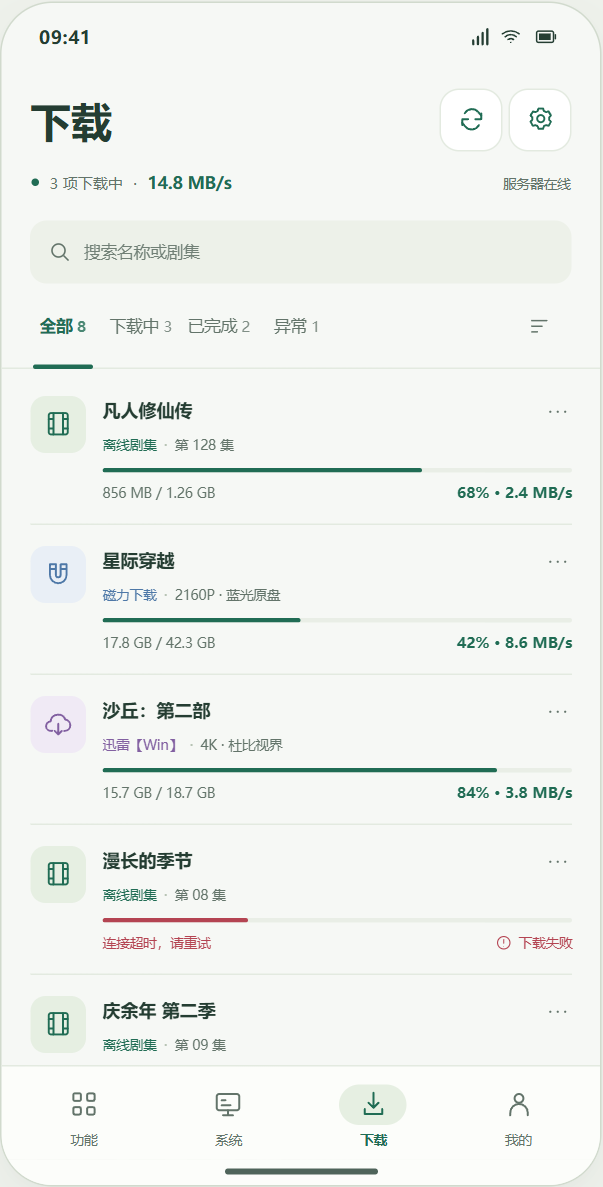
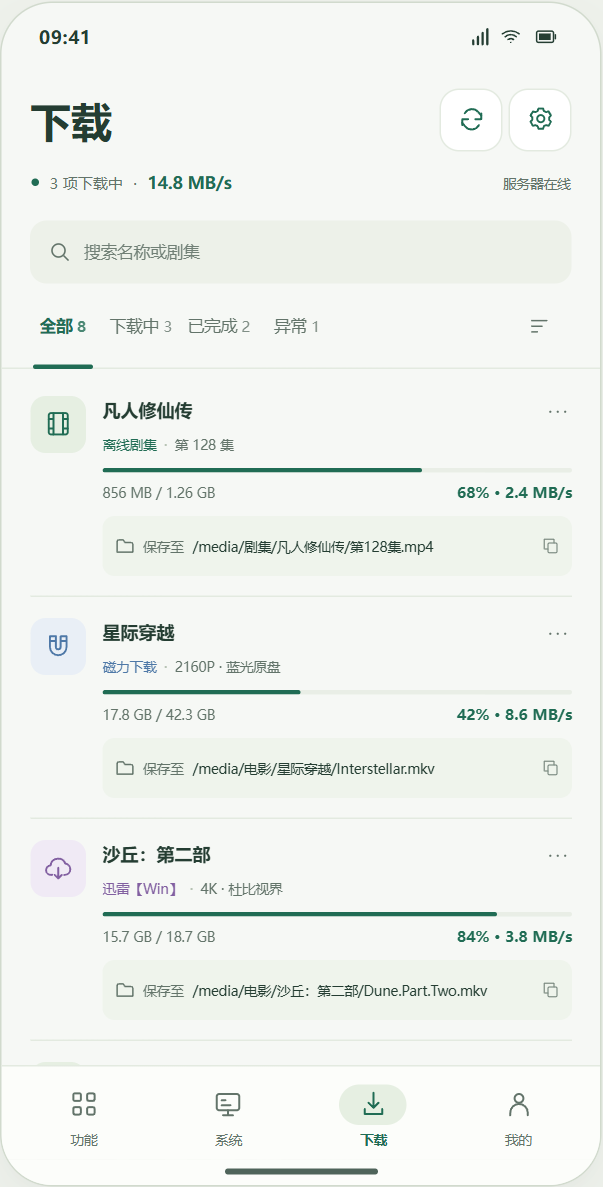
1

diff --git a/output/download-list-three-layouts/app.js b/output/download-list-three-layouts/app.js
@@ -42,7 +42,7 @@ const originalTasks = [
  {id:'t8',title:'宇宙探索编辑部',episode:'1080P · 高清',source:'magnet',state:'done',progress:100,speed:0,received:'3.8 GB',total:'3.8 GB',path:'/media/电影/宇宙探索编辑部/Journey.to.the.West.mkv'}
 ];
 const specs = [
- {id:'a',num:'01',title:'极简清单',subtitle:'连续列表 · 优先浏览效率',tag:'推荐',caption:'去掉大卡片，用轻分隔线串起任务。标题、进度、速度固定对齐，一眼扫过所有下载。',fit:'日常使用'},
+ {id:'a',num:'01',title:'极简清单',subtitle:'连续列表 · 优先浏览效率',tag:'推荐',caption:'去掉大卡片，用轻分隔线串起任务。标题、进度、速度固定对齐，保存位置独立显示，点击即可复制。',fit:'日常使用'},
  {id:'b',num:'02',title:'状态分组',subtitle:'分组列表 · 优先处理任务',caption:'下载中、异常、等待、已完成各归一组。组内保持连续列表，优先看到需要关注的任务。',fit:'任务较多'},
  {id:'c',num:'03',title:'来源分栏',subtitle:'双栏列表 · 优先切换来源',caption:'左侧固定来源，右侧专注任务列表。三个下载器各自查看，查找与切换更有方向。',fit:'多下载器'}
 ];
@@ -57,13 +57,20 @@ const sourceTag = task => '<span class="source-tag '+task.source+'">'+sources[ta
 const progress = task => '<div class="progress-track '+task.state+'" role="progressbar" aria-label="'+safe(task.title)+'下载进度" aria-valuemin="0" aria-valuemax="100" aria-valuenow="'+task.progress+'"><i style="--progress:'+task.progress+'%"></i></div>';
 const statusNode = task => '<span class="task-state '+stateClass(task)+'">'+(stateIcon(task)?icon(stateIcon(task)):'')+statusText(task)+'</span>';
 const titleLine = task => '<div class="task-title-line"><button class="title-button" data-action="detail" data-task="'+task.id+'" aria-label="查看'+safe(task.title)+'详细信息"><span class="task-title">'+safe(task.title)+'</span></button><button class="more-button" data-action="menu" data-task="'+task.id+'" aria-label="'+safe(task.title)+'的更多操作">'+icon('more')+'</button></div>';
+function savePathRow(task) {
+ const full=task.path||'',hasPath=full.trim().length>0;
+ const tailLength=/[^\u0000-\u00ff]/.test(full.slice(-14))?10:14;
+ const leading=full.slice(0,Math.max(0,full.length-tailLength)),tail=full.slice(-tailLength);
+ const value=hasPath?'<span class="save-path-leading">'+safe(leading)+'</span><span class="save-path-tail">'+safe(tail)+'</span>':'由下载器管理';
+ return '<button class="task-save-path '+(hasPath?'':'unset')+'" data-action="copy-path" data-task="'+task.id+'" title="'+safe(hasPath?'点击复制：'+full:'由下载器管理')+'" aria-label="'+safe(hasPath?'复制完整保存位置：'+full:'保存位置由下载器管理')+'" '+(hasPath?'':'disabled')+'><span class="save-path-prefix">'+icon('folder')+'<span>保存至</span></span><span class="save-path-value">'+value+'</span>'+(hasPath?icon('copy'):'')+'</button>';
+}
 function row(task, variant, index) {
  const meta=sourceTag(task)+'<span class="meta-divider">·</span><span>'+safe(task.episode)+'</span>';
  const sizes=task.received+' / '+task.total;
  const right=task.state==='active'?'<strong>'+task.progress+'% · '+task.speed.toFixed(1)+' MB/s</strong>':statusNode(task);
  if(variant==='b') return '<article class="group-row" data-task-row="'+task.id+'"><span class="row-index">'+String(index+1).padStart(2,'0')+'</span><div class="task-content">'+titleLine(task)+'<div class="task-meta">'+meta+'</div>'+progress(task)+'<div class="task-footer"><span class="'+stateClass(task)+'">'+(task.state==='error'?safe(task.message):sizes)+'</span>'+(task.state==='active'?'<strong>'+task.progress+'% · '+task.speed.toFixed(1)+' MB/s</strong>':statusNode(task))+'</div></div></article>';
  if(variant==='c') return '<article class="task-row" data-task-row="'+task.id+'"><div class="task-content"><div class="row-heading">'+sourceTag(task)+statusNode(task)+'</div>'+titleLine(task)+'<div class="task-meta">'+safe(task.episode)+'<span class="meta-divider">·</span><span>'+task.total+'</span></div>'+progress(task)+'<div class="task-footer"><span class="'+stateClass(task)+'">'+(task.state==='error'?safe(task.message):task.received+' · '+task.progress+'%')+'</span>'+(task.state==='active'?'<strong>'+task.speed.toFixed(1)+' MB/s</strong>':'<span>'+((task.state==='done')?'已保存至目录':'')+'</span>')+'</div></div></article>';
- return '<article class="task-row" data-task-row="'+task.id+'"><div class="task-icon '+task.source+'">'+icon(sources[task.source].icon)+'</div><div class="task-content">'+titleLine(task)+'<div class="task-meta">'+meta+'</div>'+progress(task)+'<div class="task-footer"><span>'+((task.state==='error')?'<span class="error-text">'+safe(task.message)+'</span>':sizes)+'</span>'+right+'</div></div></article>';
+ return '<article class="task-row" data-task-row="'+task.id+'"><div class="task-icon '+task.source+'">'+icon(sources[task.source].icon)+'</div><div class="task-content">'+titleLine(task)+'<div class="task-meta">'+meta+'</div>'+progress(task)+'<div class="task-footer"><span>'+((task.state==='error')?'<span class="error-text">'+safe(task.message)+'</span>':sizes)+'</span>'+right+'</div>'+savePathRow(task)+'</div></article>';
 }
 const filteredTasks = state => {
  let tasks=state.tasks.filter(t=>(state.source==='all'||t.source===state.source)&&(state.filter==='all'||t.state===state.filter)&&(!state.query||(t.title+' '+t.episode+' '+sources[t.source].name).toLowerCase().includes(state.query.toLowerCase())));

diff --git a/android/app/src/main/java/com/huluwa/android/ui/DownloadsScreen.kt b/android/app/src/main/java/com/huluwa/android/ui/DownloadsScreen.kt
@@ -2,6 +2,7 @@ package com.huluwa.android.ui
 
 import android.content.ClipData
 import android.content.ClipboardManager
+import android.content.Context
 import androidx.compose.foundation.BorderStroke
 import androidx.compose.foundation.background
 import androidx.compose.foundation.clickable
@@ -20,6 +21,7 @@ import androidx.compose.material.icons.Icons
 import androidx.compose.material.icons.outlined.Check
 import androidx.compose.material.icons.outlined.Close
 import androidx.compose.material.icons.outlined.CloudDownload
+import androidx.compose.material.icons.outlined.ContentCopy
 import androidx.compose.material.icons.outlined.ErrorOutline
 import androidx.compose.material.icons.outlined.FileDownload
 import androidx.compose.material.icons.outlined.FolderOpen
@@ -37,6 +39,7 @@ import androidx.compose.runtime.*
 import androidx.compose.runtime.saveable.rememberSaveable
 import androidx.compose.ui.Alignment
 import androidx.compose.ui.Modifier
+import androidx.compose.ui.draw.clip
 import androidx.compose.ui.graphics.Color
 import androidx.compose.ui.graphics.SolidColor
 import androidx.compose.ui.graphics.vector.ImageVector
@@ -103,9 +106,9 @@ private enum class DownloadFilter(val title: String) {
             scope.launch { listState.scrollToItem(0) }
         })
         HorizontalDivider(color = HuluwaColors.Line)
-        // 连接异常仍由共用标题栏提示；内容区保留具体业务错误及有数据时的刷新进度。
-        Feedback(ui.downloads.loading && tasks.isNotEmpty(), ui.downloads.error.takeUnless { it.isServerUnreachable() },
-            { vm.refreshDownloads() })
+        // 内容区仅保留业务错误和重试入口，连接异常由共用标题栏提示。
+        Feedback(loading = false, error = ui.downloads.error.takeUnless { it.isServerUnreachable() },
+            onRetry = { vm.refreshDownloads() })
         LazyColumn(state = listState, modifier = Modifier.weight(1f).fillMaxWidth(),
             contentPadding = PaddingValues(top = 4.dp, bottom = 16.dp)) {
             if (tasks.isEmpty()) item(key = "empty") {
@@ -230,6 +233,7 @@ private enum class DownloadFilter(val title: String) {
 }
 
 @Composable private fun DownloadListRow(task: DownloadTask, enabled: Boolean, vm: HuluwaViewModel) {
+    val context = LocalContext.current
     val failed = task.hasDownloadIssue()
     val progress = when {
         task.completed -> 1f
@@ -280,8 +284,33 @@ private enum class DownloadFilter(val title: String) {
                     maxLines = 1, overflow = TextOverflow.Ellipsis)
                 DownloadRowStatus(task)
             }
+            Spacer(Modifier.height(8.dp))
+            DownloadSavePath(task.savePath) { copyDownloadPath(task.savePath, context, vm) }
         }
     }
+}
+
+/** 保存位置作为独立辅助行，单行中间省略，复制时始终使用服务端返回的完整路径。 */
+@Composable private fun DownloadSavePath(savePath: String, onCopy: () -> Unit) {
+    val hasPath = savePath.isNotBlank()
+    Row(Modifier.fillMaxWidth().clip(RoundedCornerShape(8.dp))
+        .background(HuluwaColors.SoftGreen.copy(alpha = .45f))
+        .clickable(enabled = hasPath, role = Role.Button, onClickLabel = "复制完整保存位置", onClick = onCopy)
+        .heightIn(min = 40.dp).padding(horizontal = 8.dp, vertical = 6.dp),
+        verticalAlignment = Alignment.CenterVertically, horizontalArrangement = Arrangement.spacedBy(6.dp)) {
+        Icon(Icons.Outlined.FolderOpen, null, Modifier.size(14.dp), tint = HuluwaColors.Muted)
+        Text("保存至", style = MaterialTheme.typography.labelSmall, color = HuluwaColors.Muted)
+        Text(savePath.ifBlank { "由下载器管理" }, Modifier.weight(1f), style = MaterialTheme.typography.labelSmall,
+            color = if (hasPath) HuluwaColors.Ink else HuluwaColors.Muted, maxLines = 1, overflow = TextOverflow.MiddleEllipsis)
+        if (hasPath) Icon(Icons.Outlined.ContentCopy, null, Modifier.size(12.dp), tint = HuluwaColors.Muted)
+    }
+}
+
+private fun copyDownloadPath(savePath: String, context: Context, vm: HuluwaViewModel) {
+    if (savePath.isBlank()) return
+    val clipboard = context.getSystemService(ClipboardManager::class.java) ?: return
+    clipboard.setPrimaryClip(ClipData.newPlainText("保存路径", savePath))
+    vm.notify("保存路径已复制")
 }
 
 @Composable private fun DownloadRowStatus(task: DownloadTask) {
@@ -326,8 +355,7 @@ private enum class DownloadFilter(val title: String) {
             DropdownMenuItem(text = { Text("复制保存路径") }, enabled = task.savePath.isNotBlank(),
                 leadingIcon = { Icon(Icons.Outlined.FolderOpen, null) }, onClick = {
                     menu = false
-                    context.getSystemService(ClipboardManager::class.java)?.setPrimaryClip(ClipData.newPlainText("保存路径", task.savePath))
-                    vm.notify("保存路径已复制")
+                    copyDownloadPath(task.savePath, context, vm)
                 })
             DropdownMenuItem(text = { Text("详细信息") }, onClick = { menu = false; showDownloadDetails(task, vm) })
         }

diff --git a/android/app/src/main/java/com/huluwa/android/HuluwaViewModel.kt b/android/app/src/main/java/com/huluwa/android/HuluwaViewModel.kt
@@ -533,8 +533,10 @@ class HuluwaViewModel(application: Application) : AndroidViewModel(application) 
             val status = AndroidBuildStatus.from(repository.androidStatus(previous.serverId))
             var tasks = repository.androidTasks()
             if (epoch != generation || mutable.value.androidBuild.serverId != previous.serverId) return@refresh
-            var selectedId = previous.selectedId?.takeIf { id -> tasks.any { it.id == id } }
-                ?: status.activeTask?.id ?: tasks.firstOrNull()?.id
+            // 有新任务执行时立即切换日志，不能沿用已完成任务的游标与完成标记。
+            val selectedId = status.activeTask?.id
+                ?: previous.selectedId?.takeIf { id -> tasks.any { it.id == id } }
+                ?: tasks.firstOrNull()?.id
             var logText = if (selectedId == previous.selectedId) previous.logs else ""
             var cursor = if (selectedId == previous.selectedId) previous.cursor else 0
             var complete = if (selectedId == previous.selectedId) previous.logComplete else false
@@ -582,6 +584,8 @@ class HuluwaViewModel(application: Application) : AndroidViewModel(application) 
             try {
                 val task = if (type == "BUILD") repository.androidBuild(serverId) else repository.androidUpdate(serverId)
                 if (epoch != generation) return@launch
+                // 丢弃仍在读取上个任务的轮询，避免覆盖新任务并阻挡下面的即时刷新。
+                refreshJobs.remove("android-build")?.cancel()
                 mutable.update { it.copy(clock = System.currentTimeMillis(), androidBuild = it.androidBuild.copy(
                     submitting = null, status = it.androidBuild.status.copy(activeTask = task),
                     selectedId = task.id, logs = "", cursor = 0, logComplete = false, follow = true,

diff --git a/output/download-list-three-layouts/styles.css b/output/download-list-three-layouts/styles.css
@@ -15,3 +15,16 @@
 .layout-a .task-row{padding-top:14px;padding-bottom:13px}.layout-a .task-icon{height:38px}.layout-a .task-meta{margin-top:2px;line-height:16px}.layout-a .progress-track{margin-top:8px}.layout-a .task-footer{margin-top:6px}.filter-sort{margin-left:auto;min-width:22px;justify-content:center;padding-bottom:10px}.filter-sort svg{width:15px;height:15px}.layout-a .list-scroll{padding-top:4px}
 
 .layout-a .filters{gap:8px}.layout-a .filter{min-width:44px}.layout-a .filter-sort{min-width:44px;min-height:44px}
+
+/* 极简清单：保存位置与任务正文对齐，浅底辅助行承接完整路径复制。 */
+.layout-a .task-save-path{display:flex;align-items:center;gap:6px;min-height:40px;width:100%;padding:6px 8px;margin-top:8px;border-radius:8px;background:rgba(230,239,226,.45);text-align:left;font-size:9px;line-height:16px;color:var(--muted)}
+.layout-a .task-save-path:hover{background:var(--soft)}
+.layout-a .task-save-path>svg{width:12px;height:12px;flex-shrink:0;opacity:.8}
+.layout-a .save-path-prefix{display:flex;align-items:center;gap:5px;white-space:nowrap;flex-shrink:0}
+.layout-a .save-path-prefix svg{width:14px;height:14px}
+.layout-a .save-path-value{display:flex;flex:1;min-width:0;color:var(--ink);font-size:9px;overflow:hidden}
+.layout-a .save-path-leading{min-width:0;overflow:hidden;text-overflow:ellipsis;white-space:nowrap}
+.layout-a .save-path-tail{flex-shrink:0;white-space:nowrap}
+.layout-a .task-save-path.unset{color:var(--muted);opacity:1;cursor:default}
+.layout-a .task-save-path.unset .save-path-value{color:var(--muted)}
+.layout-a .task-save-path.unset:hover{background:rgba(230,239,226,.45)}

diff --git a/android/app/src/main/java/com/huluwa/android/ui/AiConversationScreen.kt b/android/app/src/main/java/com/huluwa/android/ui/AiConversationScreen.kt
@@ -140,12 +140,18 @@ import kotlinx.serialization.json.*
     val scroll = rememberAiConversationScroll(session.id, motion.initialized, entries.size)
     val revealing by remember(motion) { derivedStateOf { motion.messages.any { it.isRevealing } } }
     val replying = !ui.loadingSession && (session.running || revealing)
-    // 状态行与实际展示的消息尾部同步，避免先于对应消息出现；正文输出时持续隐藏。
+    // 按正文与工具执行阶段切换提示，工具记录 ID 更新时保持状态行，不重新淡入。
+    val renderedAssistantOutput by remember(motion) {
+        derivedStateOf {
+            motion.messages.lastOrNull()?.let {
+                it.role == "assistant" && (it.text.isNotBlank() || it.isRevealing)
+            } == true
+        }
+    }
     val latestMessage = session.messages.lastOrNull()
-    val tailSynced = motion.messages.lastOrNull()?.id == latestMessage?.id
     val assistantOutput = latestMessage?.let { it.role == "assistant" && it.text.isNotBlank() } == true
-    val showReplyIndicator = !ui.loadingSession && session.running && tailSynced &&
-        (session.status == "approval" || (!assistantOutput && !revealing))
+    val showReplyIndicator = !ui.loadingSession && session.running &&
+        (session.status == "approval" || (!assistantOutput && !renderedAssistantOutput && !revealing))
     val elapsedSeconds = rememberAiReplyElapsedSeconds(session, replying)
     BoxWithConstraints(modifier.fillMaxWidth()) {
         // 确认区随键盘后的可用高度收缩，避免把消息区域全部挤出屏幕。

diff --git a/output/download-list-three-layouts/README.md b/output/download-list-three-layouts/README.md
@@ -4,7 +4,7 @@
 
 | 方案 | 布局 | 适合场景 |
 | --- | --- | --- |
-| 01 极简清单（推荐） | 状态筛选 + 连续分隔线列表；每行展示来源、剧名、集数、进度、百分比、容量、速度或异常状态 | 日常浏览，优先列表效率 |
+| 01 极简清单（推荐） | 状态筛选 + 连续分隔线列表；每行展示来源、剧名、集数、进度、百分比、容量、速度或异常状态；底部独立显示保存位置 | 日常浏览，优先列表效率 |
 | 02 状态分组 | 紧凑摘要 + 下载中、需要处理、等待与暂停、已完成分组；组内连续列表，可折叠 | 任务较多，优先处理异常与进行中的任务 |
 | 03 来源分栏 | 左侧来源栏 + 右侧任务列表；支持全部、剧集、磁力、迅雷切换 | 同时使用多个下载器 |
 
@@ -29,6 +29,7 @@
 - 第一版切换全部、下载中、已完成、异常；第一、三版支持默认与名称排序。
 - 第二版展开与折叠状态分组。
 - 第三版按下载来源切换任务，计数与速度随筛选更新。
+- 极简清单每条任务底部展示“文件夹图标 + 保存至 + 路径 + 复制图标”，长路径保留前后部分，点击辅助行复制完整路径；无路径时显示“由下载器管理”。
 - 点击任务标题查看详情、完整保存路径；可复制路径。
 - 更多菜单保留离线剧集的取消、重试、查看日志，以及通用详情入口。
 - 设置弹层展示各来源设置与清空记录入口。
@@ -44,6 +45,8 @@
 
 ## 验证记录
 
+保存位置辅助行已在浏览器原型中补充检查：整行复制完整路径、空路径占位、长路径省略、Windows 路径保持原值，以及 1400、390、360 像素宽度下无横向溢出；原有详情与菜单复制入口仍可用。
+
 已在本机 Chrome 实际渲染；检查了搜索、筛选、空状态、折叠、来源切换、任务详情、关闭弹层、重试、取消、清空与重置。检查了 1400、1024、390、360 像素宽度，页面无横向溢出，任务列表可独立滚动，底部导航保留在手机内部。浏览器未发现脚本异常。
 
-未修改 Android、前端或服务端的业务代码；未运行构建、编译、打包或安装。设计原型尚未接入真实数据接口。
+极简清单的保存位置辅助行已同步到 Android 的 `DownloadsScreen.kt`；原生代码仅进行静态核对。未运行构建、编译、打包或安装，本目录原型使用独立示例数据。
